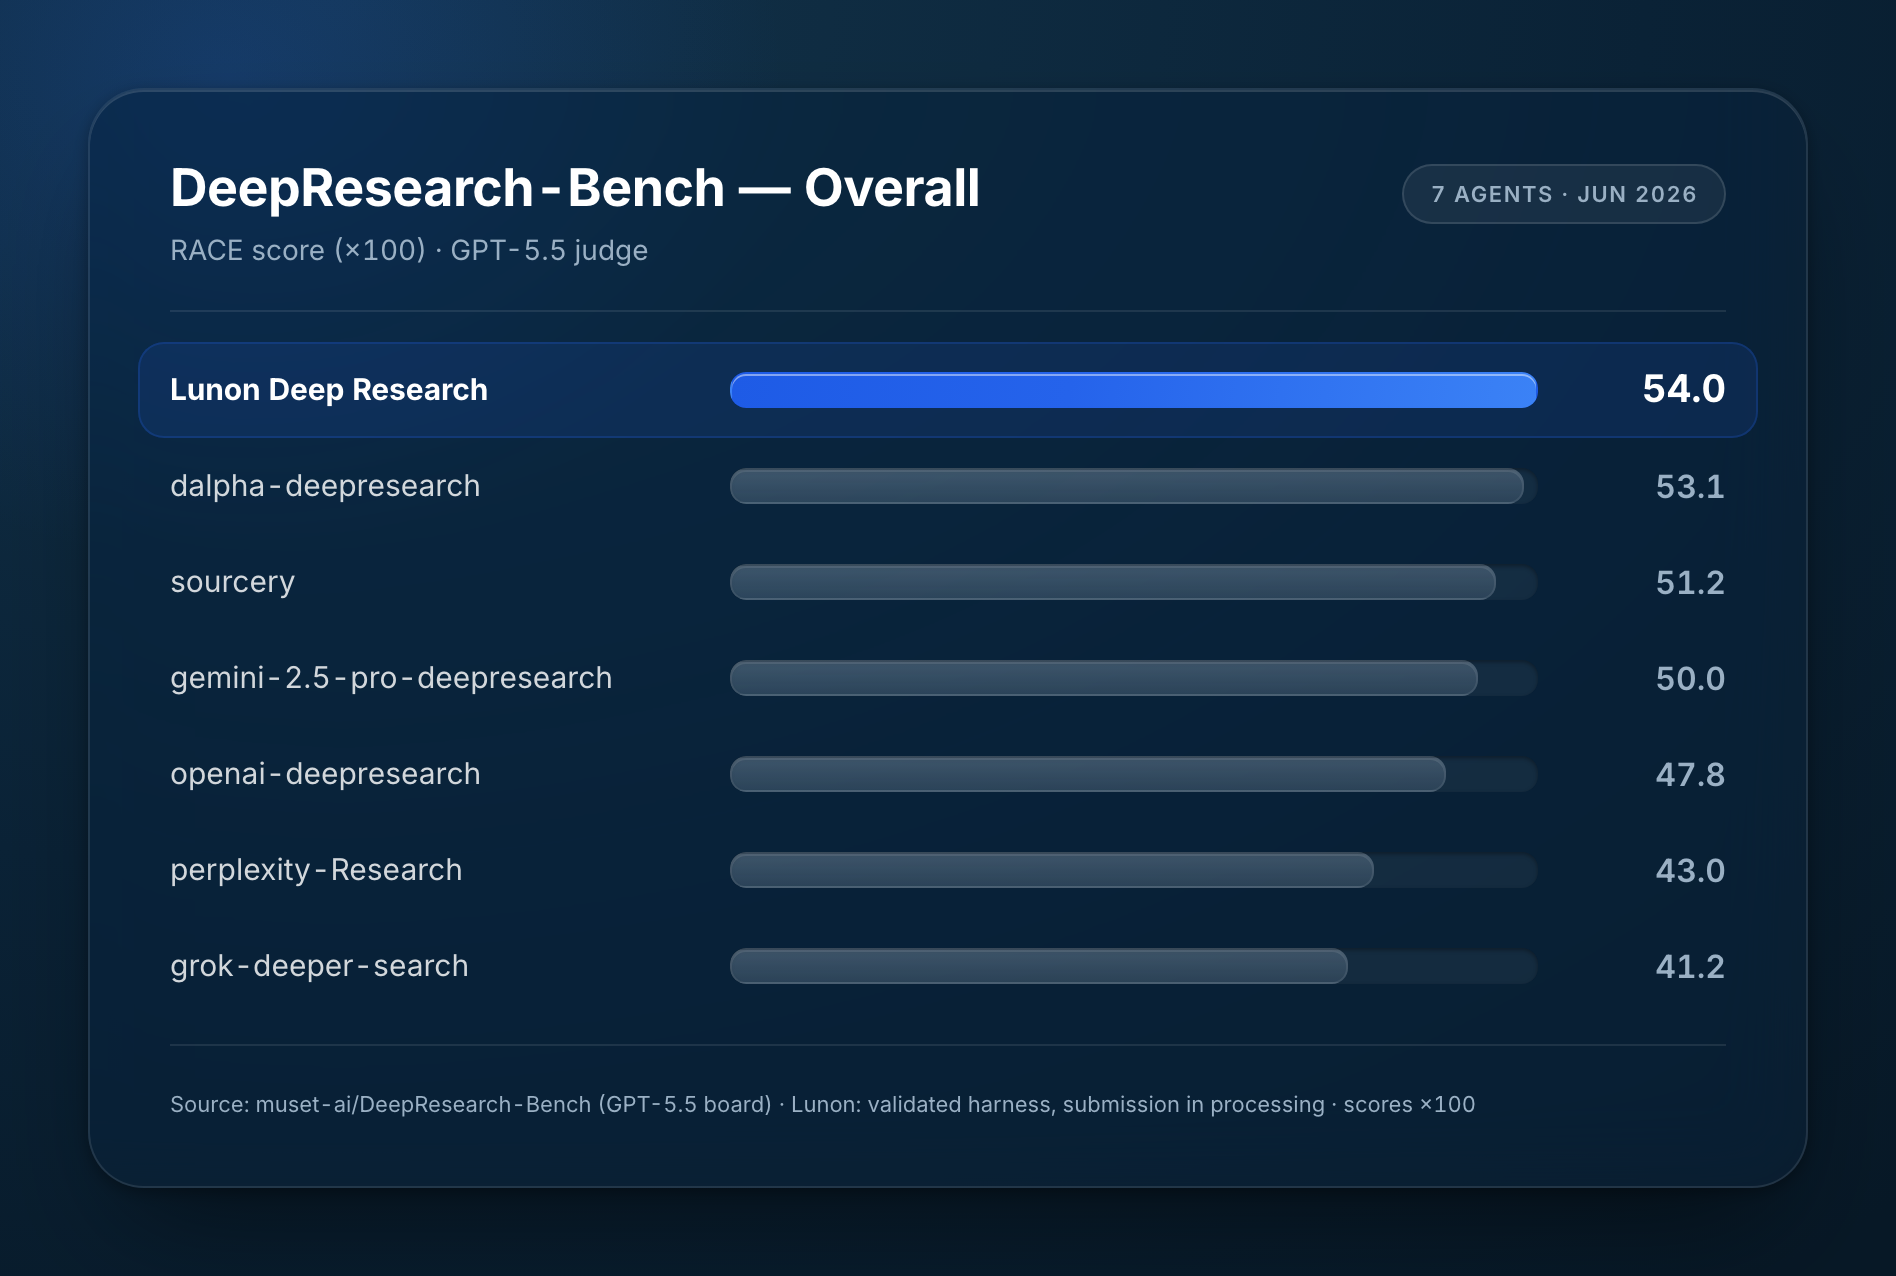
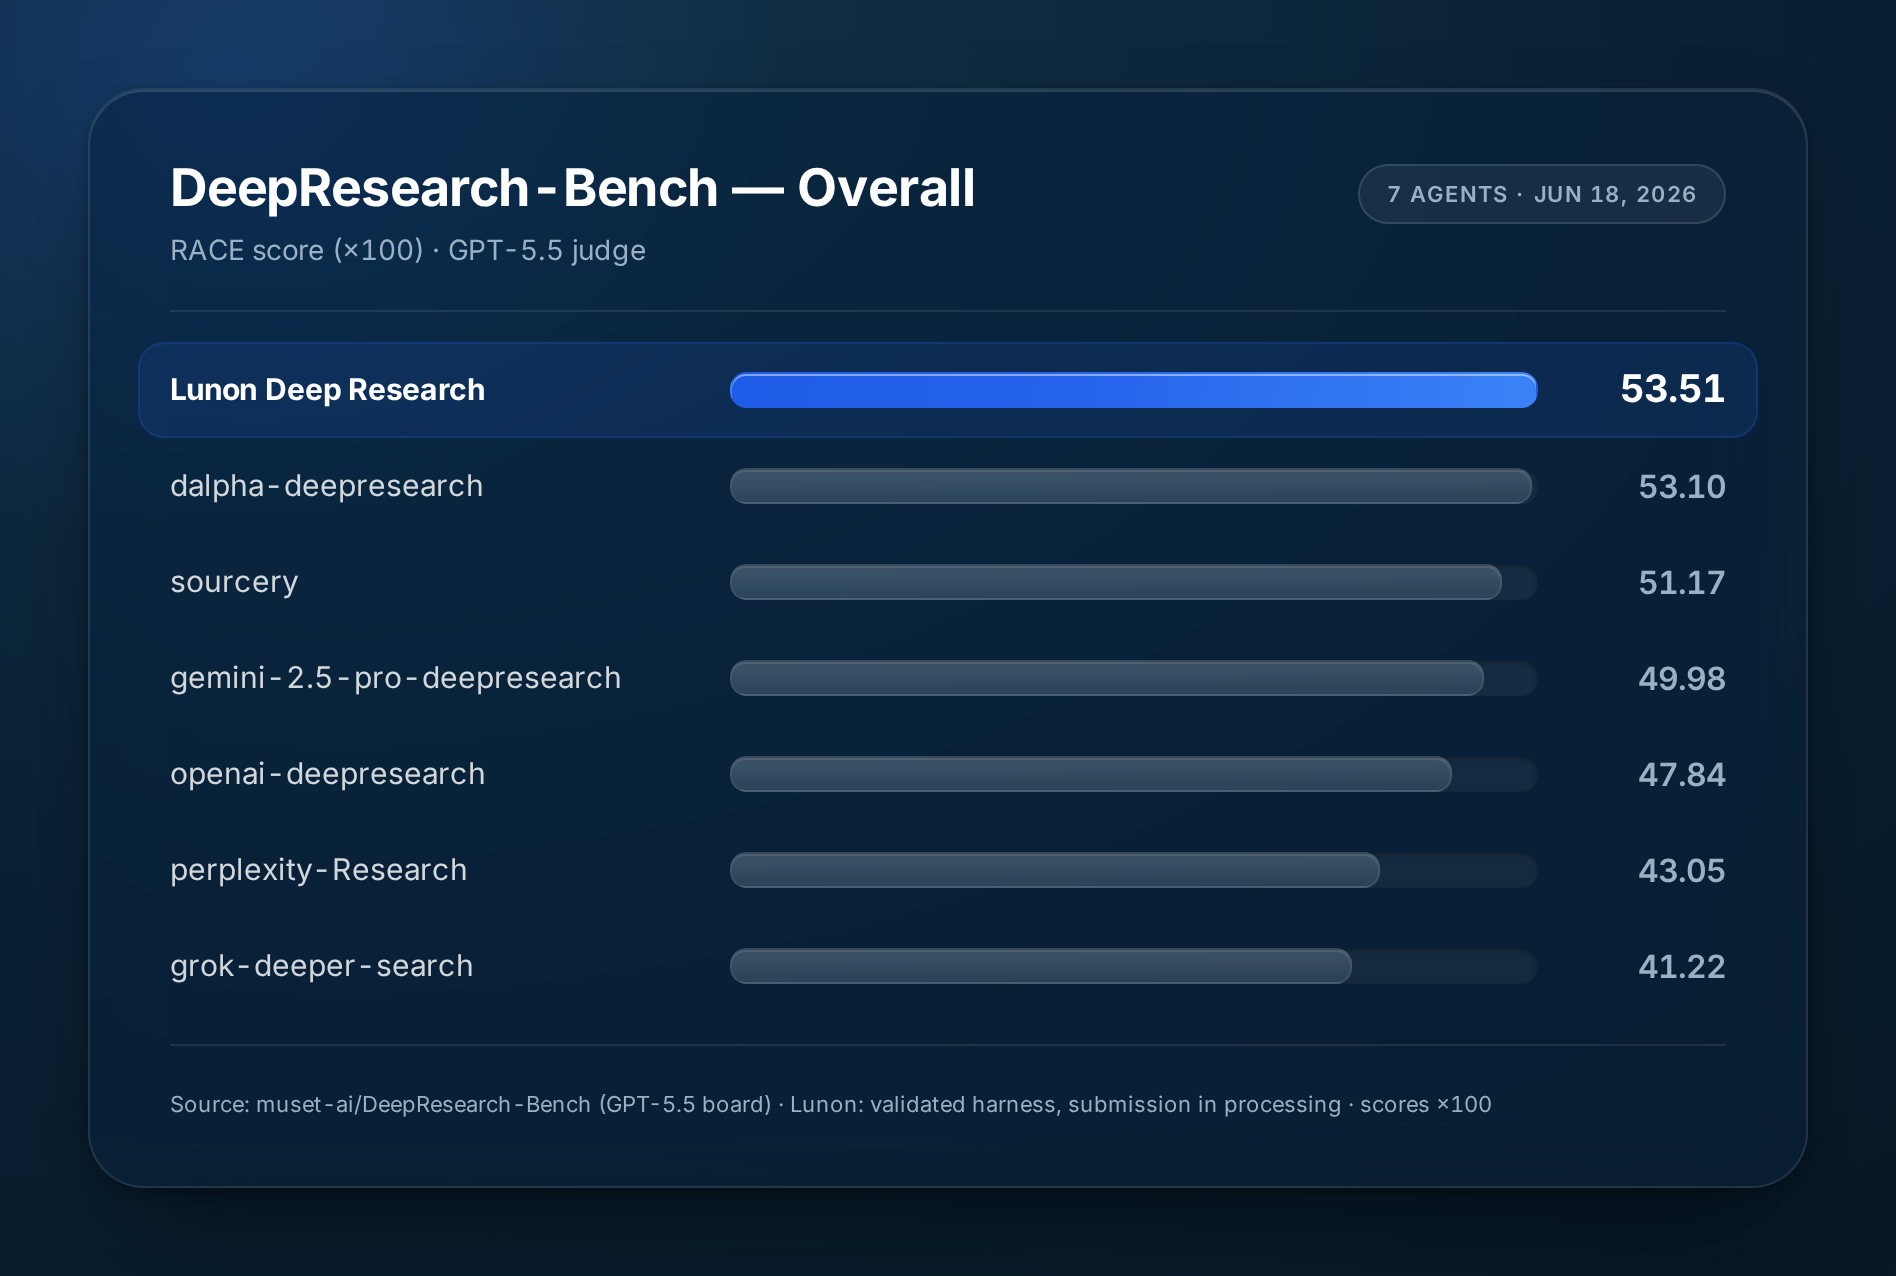
docs(readme): update RACE overall to 53.51 (last updated Jun 18, 2026)
- leaderboard_gpt55.json: Lunon overall 53.97 → 53.51; generated → 2026-06-18.
- render_leaderboard_chart.py: render scores at 2 decimals (so the chart reads
  53.51, not a rounded 53.5) and show the full date "JUN 18, 2026" instead of
  month+year.
- Re-rendered assets/leaderboard-overall-{light,dark}.png.
- README: badge 0.540 → 0.5351, chart alt-text and the readability-lever prose
  line updated to match.

diff --git a/scripts/render_leaderboard_chart.py b/scripts/render_leaderboard_chart.py
@@ -61,10 +61,10 @@ def font_faces() -> str:
     )
 
 
-def month_year(iso_date: str) -> str:
-    """'2026-06-08' -> 'JUN 2026'."""
-    y, m, _d = iso_date.split("-")
-    return f"{_MONTHS[int(m) - 1]} {y}"
+def format_date(iso_date: str) -> str:
+    """'2026-06-18' -> 'JUN 18, 2026'."""
+    y, m, d = iso_date.split("-")
+    return f"{_MONTHS[int(m) - 1]} {int(d)}, {y}"
 
 
 def load():
@@ -85,7 +85,7 @@ def rows_html(rows) -> str:
             f'<div class="{row_cls}">'
             f'<div class="name">{html.escape(r["model"])}</div>'
             f'<div class="track"><div class="{bar_cls}" style="width:{pct:.2f}%"></div></div>'
-            f'<div class="score">{r["overall"]:.1f}</div>'
+            f'<div class="score">{r["overall"]:.2f}</div>'
             f"</div>"
         )
     return "\n".join(out)
@@ -176,7 +176,7 @@ def build_html(rows, meta, theme: str) -> str:
         theme_class=f"theme-{theme}",
         title="DeepResearch-Bench — Overall",
         dek=f"RACE score (×100) · {html.escape(meta['judge'])} judge",
-        meta=f"{len(rows)} AGENTS · {month_year(meta['generated'])}",
+        meta=f"{len(rows)} AGENTS · {format_date(meta['generated'])}",
         rows=rows_html(rows),
         source=(
             "Source: muset-ai/DeepResearch-Bench (GPT-5.5 board) · "

diff --git a/README.md b/README.md
@@ -7,7 +7,7 @@
 <p align="center"><i>An autonomous research agent that turns one question into a structured, fully-cited report.</i></p>
 
 <p align="center">
-  <img src="https://img.shields.io/badge/RACE_(GPT--5.5)-0.540-2563EB?style=flat-square" alt="RACE">
+  <img src="https://img.shields.io/badge/RACE_(GPT--5.5)-0.5351-2563EB?style=flat-square" alt="RACE">
   <img src="https://img.shields.io/badge/license-MIT-0A2236?style=flat-square" alt="License">
 </p>
 
@@ -25,7 +25,7 @@ Give it a hard question. It works out what you're actually asking, searches the 
   <picture>
     <source media="(prefers-color-scheme: dark)" srcset="assets/leaderboard-overall-dark.png">
     <source media="(prefers-color-scheme: light)" srcset="assets/leaderboard-overall-light.png">
-    <img src="assets/leaderboard-overall-light.png" alt="DeepResearch-Bench Overall (RACE, GPT-5.5 judge): Lunon at 54.0, ahead of dalpha-deepresearch 53.1, sourcery 51.2, gemini-2.5-pro 50.0, openai 47.8, perplexity 43.1, grok 41.2." width="680">
+    <img src="assets/leaderboard-overall-light.png" alt="DeepResearch-Bench Overall (RACE, GPT-5.5 judge): Lunon at 53.51, ahead of dalpha-deepresearch 53.10, sourcery 51.17, gemini-2.5-pro 49.98, openai 47.84, perplexity 43.05, grok 41.22." width="680">
   </picture>
 </p>
 
@@ -65,7 +65,7 @@ A few design choices mattered more than we expected:
 
 - **Depth is a contract, not a prompt.** The architect emits a *typed* plan — explicit research queries plus acceptance criteria — so coverage is something the engine verifies rather than something the writer can quietly skip.
 - **Structure is enforced, not requested.** Models drift on soft formatting instructions, so citation normalization, heading numbering, and cross-reference repair run as deterministic post-passes instead of living in the prompt.
-- **The final edit is the largest single lever.** A whole-article *readability rewrite* takes a sprawling, over-structured draft and compresses it to roughly reference length. That one stage moved our RACE overall from 0.527 → 0.540 and readability from 0.427 → 0.504 — more than any other change we made. It fails soft (a bad rewrite falls back to the original draft) and can be disabled with `DR_READABILITY_REWRITE=off`.
+- **The final edit is the largest single lever.** A whole-article *readability rewrite* takes a sprawling, over-structured draft and compresses it to roughly reference length. That one stage moved our RACE overall from 0.527 → 0.5351 and readability from 0.427 → 0.504 — more than any other change we made. It fails soft (a bad rewrite falls back to the original draft) and can be disabled with `DR_READABILITY_REWRITE=off`.
 - **It's tested.** A broad unit-test suite covers the pipeline, with the deterministic post-passes pinned against their live constants.
 
 **Model stack.** Claude Opus 4.8 handles planning, writing, and the readability rewrite; GPT-5.5 handles intent, criteria, refining, and scoring; and two models run via OpenRouter — Nemotron-3-Super-120B (NVIDIA) for the five parallel research specialists, and DeepSeek-V4-Pro for the Chinese-language writer pass. Every role is swappable with a single env var (`DR_ROLE_<ROLE>=…`).
